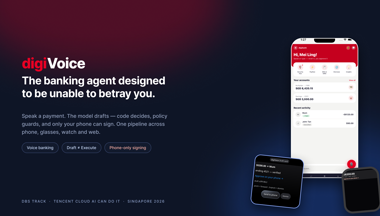
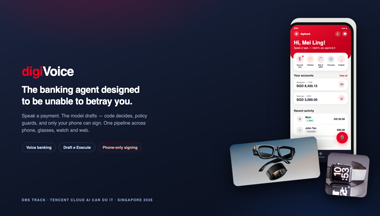
Cover: real Meta glasses + Neural Band + watch photos, mockup phone screen
Rebuilt cover.html around design/screens/home-phone.png (mockup phone, tight bezel crop), meta/glasses-band-card.png (real Ray-Ban Display + Neural Band photo) and meta/watch-card.png (real Apple Watch photo). Exports: cover.png 380x216 (63KB), cover-1920.png.

Generated with [Devin](https://devin.ai)

diff --git a/design/cover.html b/design/cover.html
@@ -21,16 +21,16 @@
   .chip { padding:12px 22px; border:1px solid rgba(140,170,255,.35); border-radius:999px;
           color:#cfe0ff; font-size:19px; font-weight:600; background:rgba(20,28,48,.6); }
   .chip.red { border-color:rgba(230,0,35,.5); color:#ffb3a8; }
-  .devices { position:absolute; right:80px; top:50%; transform:translateY(-50%); width:640px; height:820px; }
-  .phone { position:absolute; right:110px; top:0; width:340px; height:700px; border-radius:56px;
-           overflow:hidden; box-shadow:0 40px 100px rgba(0,0,0,.7),0 0 0 2px rgba(255,255,255,.08); }
+  .devices { position:absolute; right:60px; top:50%; transform:translateY(-50%); width:760px; height:900px; }
+  .phone { position:absolute; right:60px; top:0; width:333px; height:722px; border-radius:46px;
+           overflow:hidden; box-shadow:0 40px 100px rgba(0,0,0,.7),0 0 0 2px rgba(255,255,255,.10); }
   .phone img { width:100%; height:100%; object-fit:cover; }
-  .hudc { position:absolute; right:380px; bottom:60px; width:250px; height:250px; border-radius:30px;
-          overflow:hidden; box-shadow:0 30px 80px rgba(0,0,0,.6),0 0 0 2px rgba(140,170,255,.3);
+  .glassesc { position:absolute; right:250px; bottom:80px; width:440px; height:207px; border-radius:22px;
+          overflow:hidden; box-shadow:0 30px 80px rgba(0,0,0,.65),0 0 0 2px rgba(140,170,255,.35);
           transform:rotate(-6deg); }
-  .hudc img { width:100%; height:100%; object-fit:cover; }
-  .watchc { position:absolute; right:0; bottom:0; width:190px; height:226px; border-radius:44px;
-            overflow:hidden; border:8px solid #1c1c1e; box-shadow:0 0 0 3px #3a3a3c,0 24px 60px rgba(0,0,0,.7);
+  .glassesc img { width:100%; height:100%; object-fit:cover; }
+  .watchc { position:absolute; right:0; bottom:10px; width:210px; height:210px; border-radius:26px;
+            overflow:hidden; box-shadow:0 24px 60px rgba(0,0,0,.7),0 0 0 2px rgba(255,255,255,.12);
             transform:rotate(5deg); }
   .watchc img { width:100%; height:100%; object-fit:cover; }
   .badge { position:absolute; left:110px; bottom:70px; color:#8fa3cc; font-size:17px;
@@ -50,9 +50,9 @@
     </div>
   </div>
   <div class="devices">
-    <div class="phone"><img src="../apps/mobile/Renders/phone-home.png"></div>
-    <div class="hudc"><img src="../apps/glasses-hud/Renders/hud-card.png"></div>
-    <div class="watchc"><img src="../apps/watch/Renders/watch-draft.png"></div>
+    <div class="phone"><img src="screens/home-phone.png"></div>
+    <div class="glassesc"><img src="meta/glasses-band-card.png"></div>
+    <div class="watchc"><img src="meta/watch-card.png"></div>
   </div>
   <div class="badge">DBS Track · Tencent Cloud AI Can Do It · Singapore 2026</div>
 </body>
